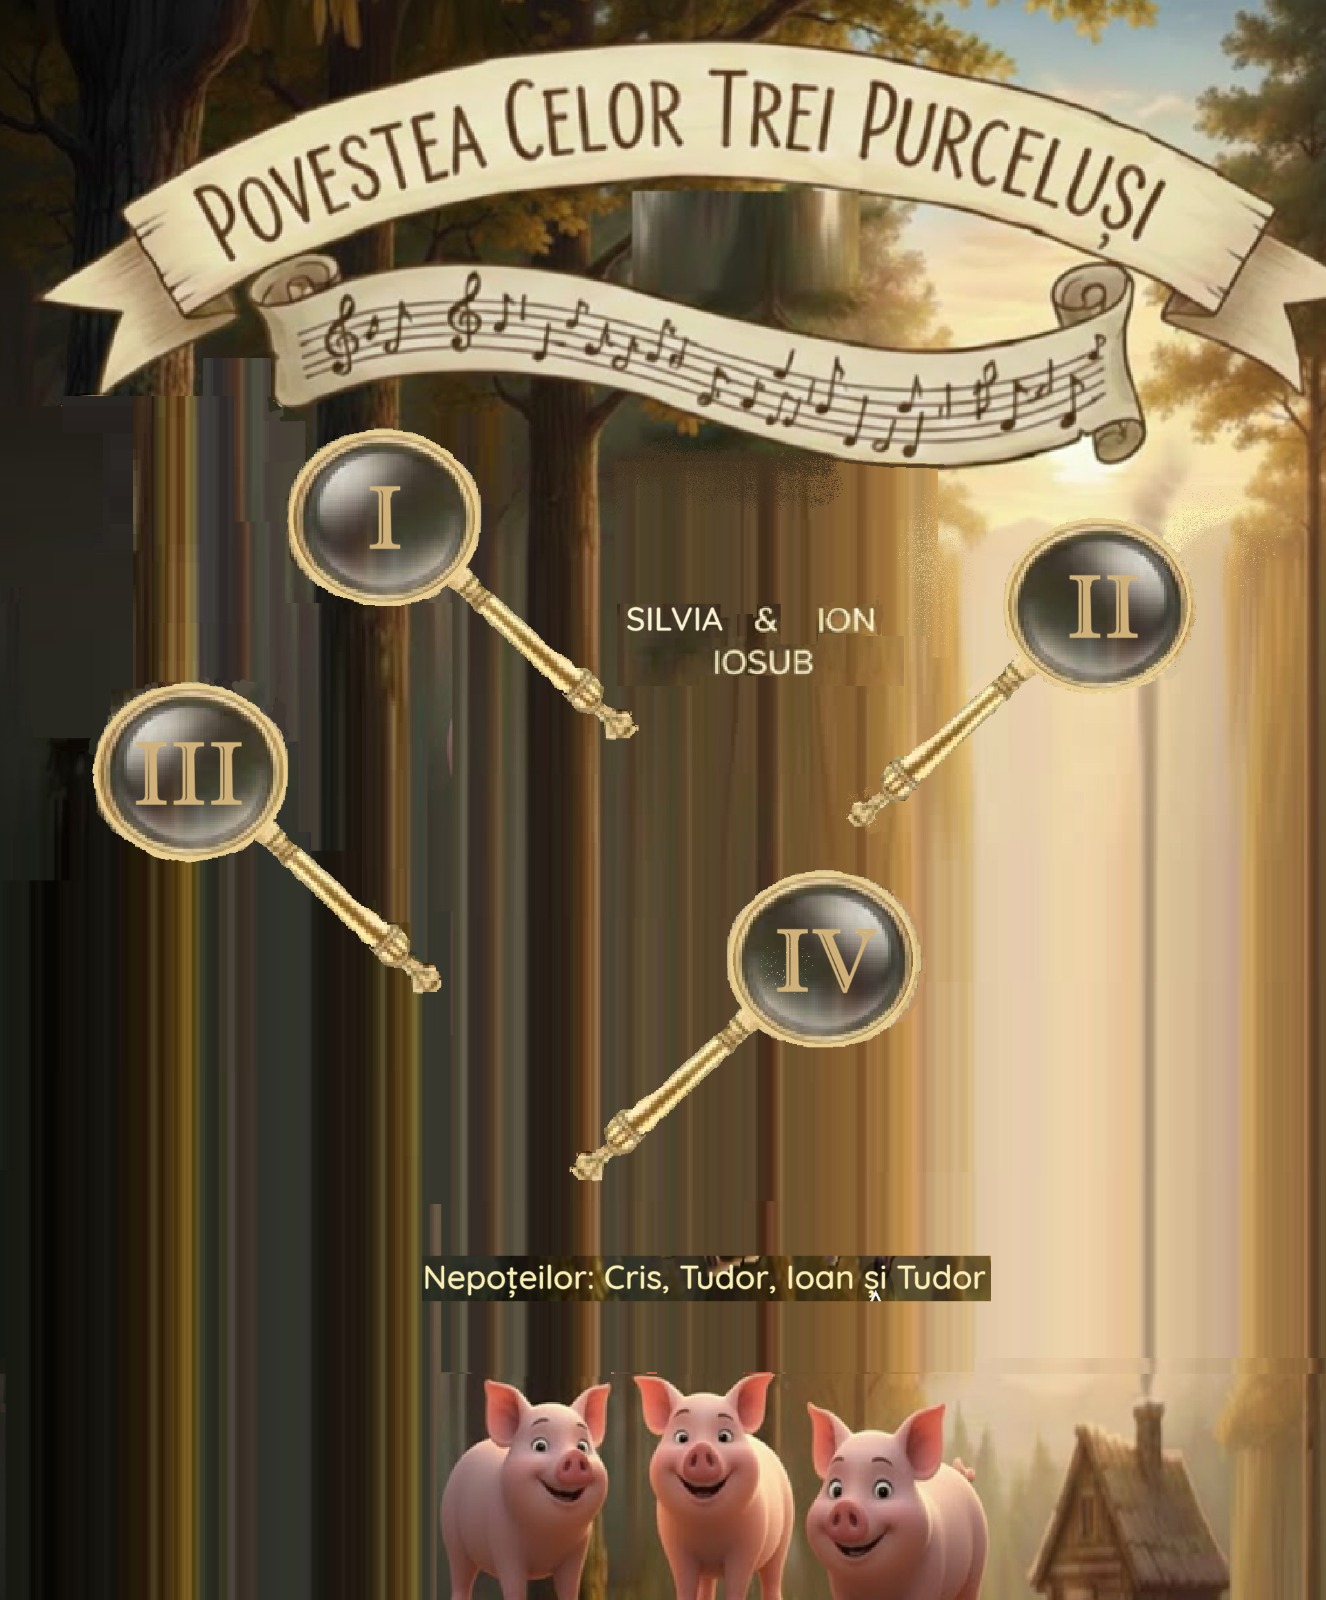
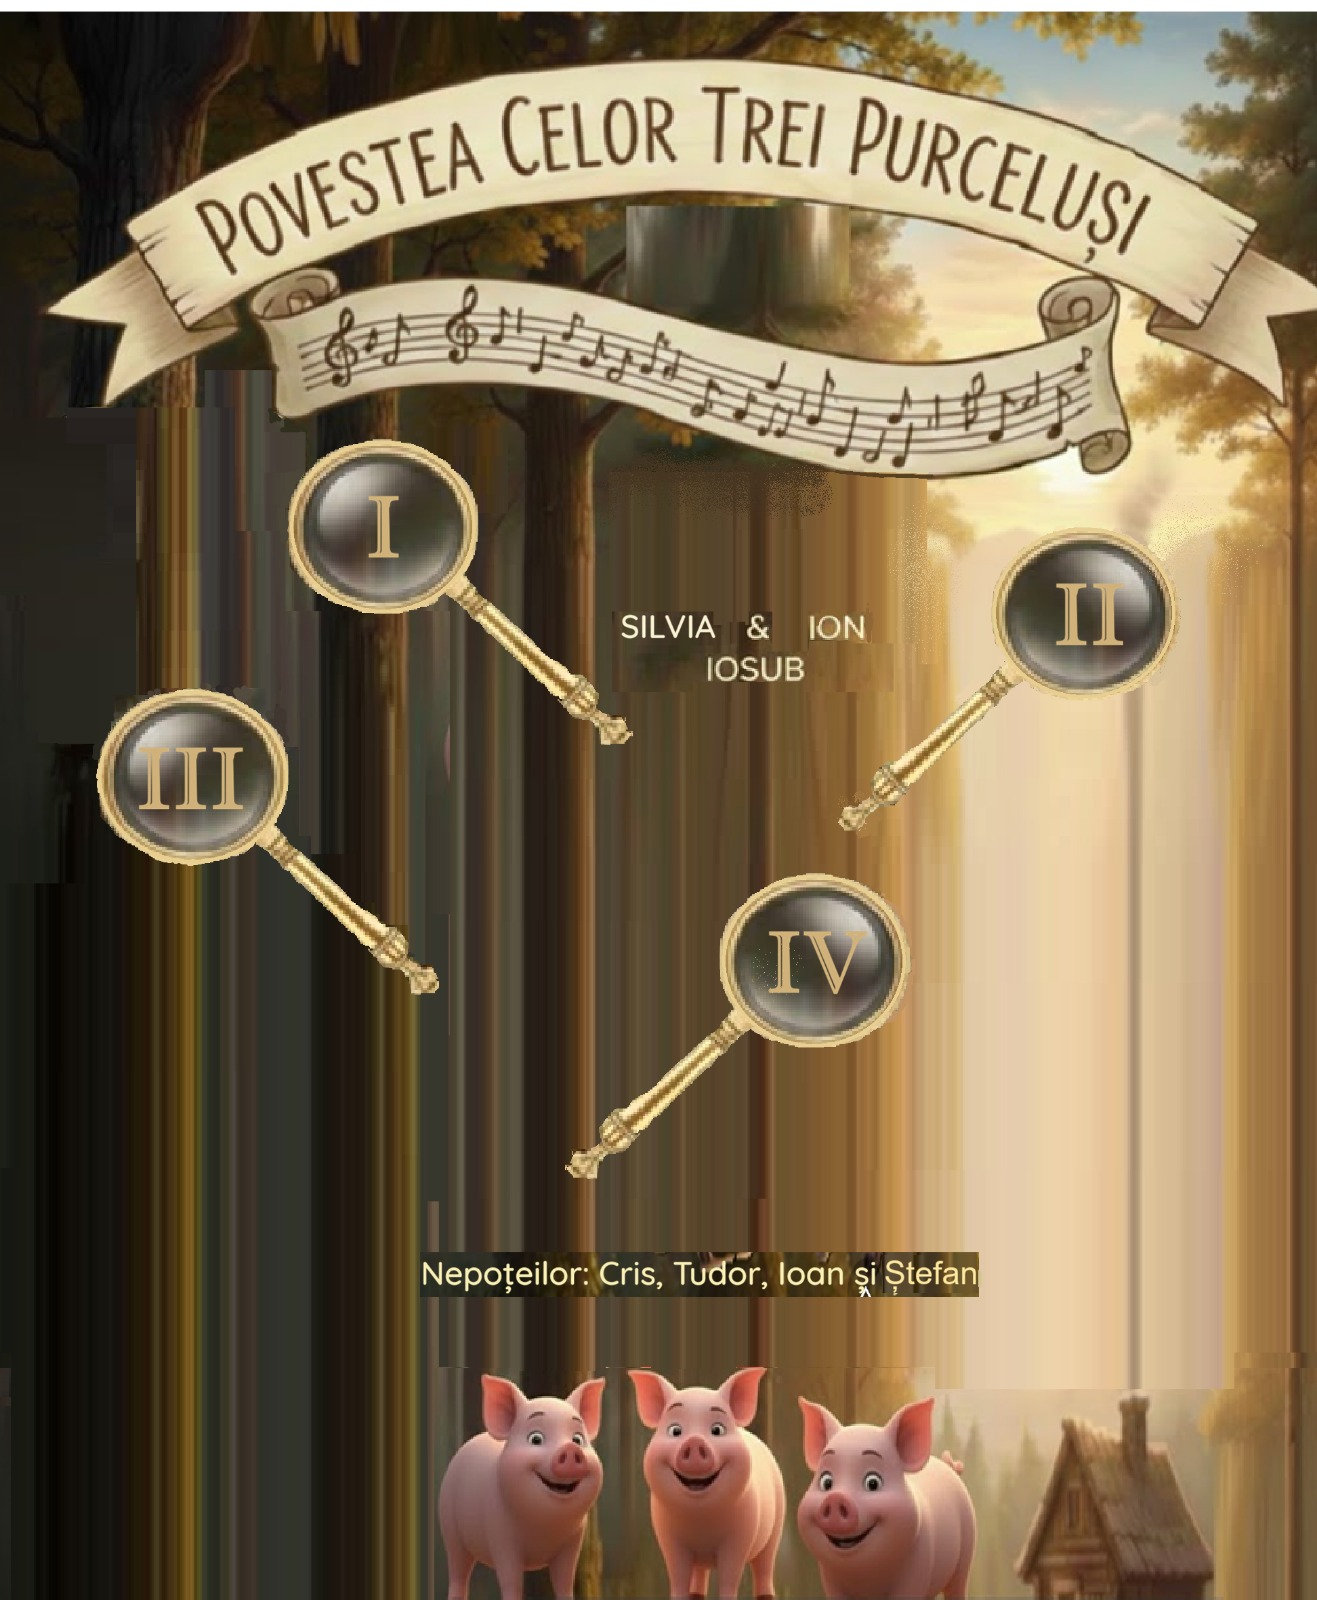
updated bg to include Stefan plus fixed link positions

diff --git a/index.html b/index.html
@@ -63,9 +63,9 @@
 
     /* Transparent clickable areas positions*/
     /*Column 1*/
-    .n1 { top:  25%; left: 22%; }
-    .n2 { top: 32%; left: 75%; }
-    .n3 { top: 42%; left: 8%; }
+    .n1 { top:  29%; left: 24%; }
+    .n2 { top: 35%; left: 78%; }
+    .n3 { top: 45%; left: 10%; }
     .n4 { top: 100%; left: 100%; }
     
 
